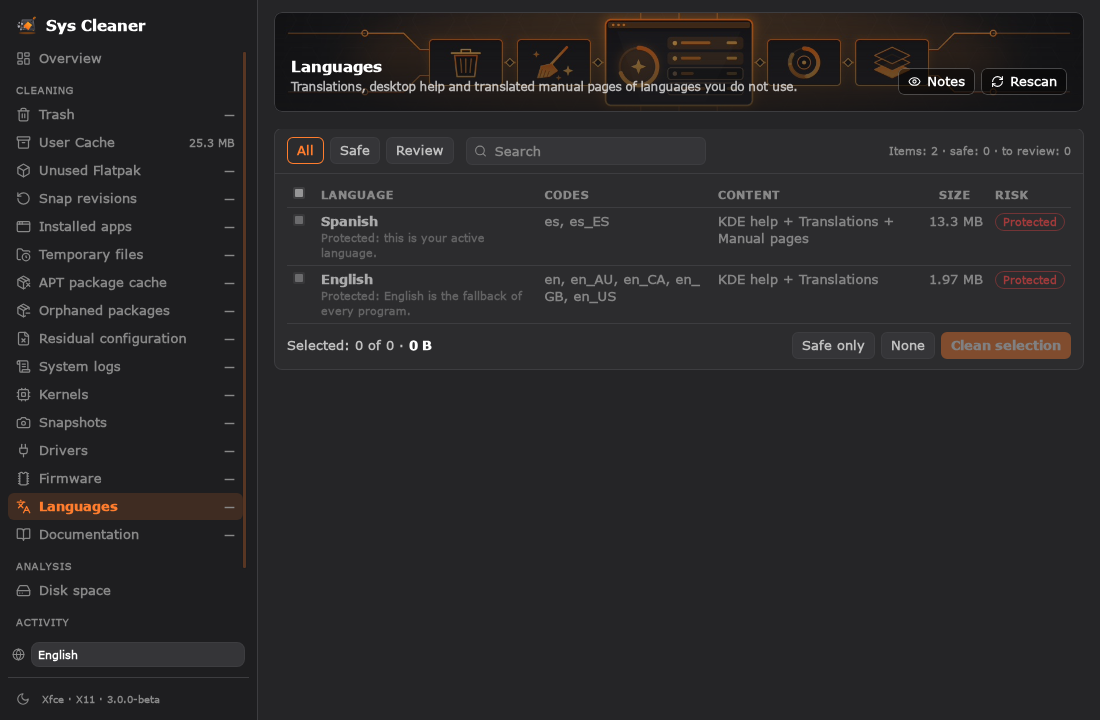
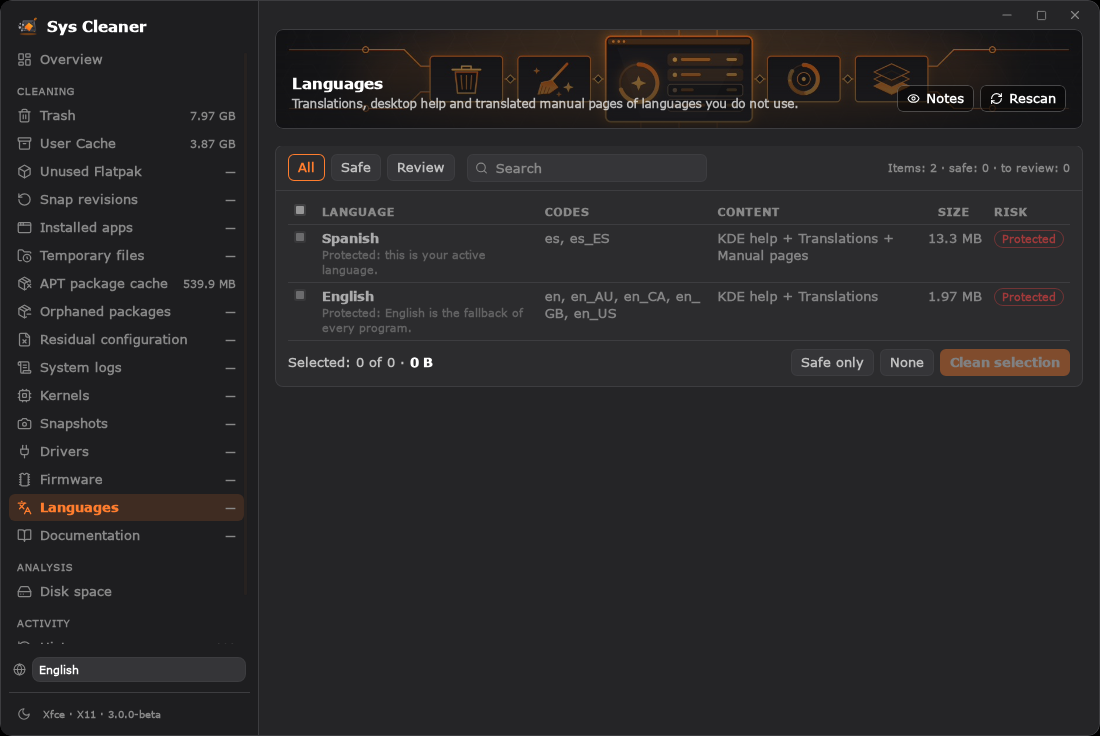
Frameless card window, new screenshots and bump to 3.0.0-8-beta

diff --git a/src/components/WindowControls.svelte b/src/components/WindowControls.svelte
@@ -1,0 +1,40 @@
+<script lang="ts">
+  import { getCurrentWindow } from "@tauri-apps/api/window";
+  import { _ } from "svelte-i18n";
+  import { Minus, Square, Copy, X } from "lucide-svelte";
+  import { maximized } from "../lib/window";
+
+  // The buttons of the window when the system draws no frame: minimize, maximize
+  // or restore, and close, at the top right of the card. They are plain icons;
+  // the accent of the theme shows under the pointer, and red only on close.
+  const win = getCurrentWindow();
+
+  const button = "grid h-[22px] w-8 place-items-center rounded text-text-muted transition-colors";
+</script>
+
+<div class="flex items-center gap-0.5">
+  <button
+    class="{button} hover:bg-primary/15 hover:text-primary"
+    title={$_("app.window.minimize")}
+    aria-label={$_("app.window.minimize")}
+    on:click={() => win.minimize()}
+  >
+    <Minus size={14} />
+  </button>
+  <button
+    class="{button} hover:bg-primary/15 hover:text-primary"
+    title={$maximized ? $_("app.window.restore") : $_("app.window.maximize")}
+    aria-label={$maximized ? $_("app.window.restore") : $_("app.window.maximize")}
+    on:click={() => win.toggleMaximize()}
+  >
+    {#if $maximized}<Copy size={11} />{:else}<Square size={11} />{/if}
+  </button>
+  <button
+    class="{button} hover:bg-danger hover:text-white"
+    title={$_("app.window.close")}
+    aria-label={$_("app.window.close")}
+    on:click={() => win.close()}
+  >
+    <X size={14} />
+  </button>
+</div>

diff --git a/src/App.svelte b/src/App.svelte
@@ -161,15 +161,23 @@
       select(tabs[(idx + dir + tabs.length) % tabs.length].id);
     }
   }
+  import WindowControls from "./components/WindowControls.svelte";
+  import { frameless, maximized } from "./lib/window";
 </script>
 
 <svelte:window on:keydown={handleKeydown} />
 
-<div class="flex h-screen overflow-hidden">
+<div class="h-screen bg-dark {$frameless && !$maximized ? 'window-card' : ''}">
+<div class="flex h-full overflow-hidden">
   <Sidebar {tabs} {active} onSelect={select} {badges} {appVersion} {envInfo} />
 
   <div class="flex min-w-0 flex-1 flex-col overflow-hidden">
-    <div class="shrink-0 px-4 pt-3">
+    {#if $frameless}
+      <div class="relative h-7 shrink-0" data-tauri-drag-region>
+        <div class="absolute right-2 top-[3px]"><WindowControls /></div>
+      </div>
+    {/if}
+    <div class="shrink-0 px-4 {$frameless ? 'pt-0' : 'pt-3'}" data-tauri-drag-region="deep">
       <div
         class="relative flex min-h-[100px] items-end gap-3 overflow-hidden rounded border border-border p-4"
         style="background: linear-gradient(rgba(20, 20, 22, 0.25), rgba(20, 20, 22, 0.82)), url('/assets/hero/sys-cleaner-background.jpg'); background-size: cover; background-position: center;"
@@ -229,3 +237,4 @@
 {/if}
 
 <Toast />
+</div>

diff --git a/src/BasicApp.svelte b/src/BasicApp.svelte
@@ -112,12 +112,20 @@
       getCurrentWindow().close();
     }
   }
+  import WindowControls from "./components/WindowControls.svelte";
+  import { frameless, maximized } from "./lib/window";
 </script>
 
 <svelte:window on:click={() => (menuOpen = false)} on:keydown={onKeydown} />
 
-<div class="flex h-screen flex-col overflow-hidden">
-  <div class="shrink-0 px-4 pt-3">
+<div class="h-screen bg-dark {$frameless && !$maximized ? 'window-card' : ''}">
+<div class="flex h-full flex-col overflow-hidden">
+  {#if $frameless}
+    <div class="relative h-7 shrink-0" data-tauri-drag-region>
+      <div class="absolute right-2 top-[3px]"><WindowControls /></div>
+    </div>
+  {/if}
+  <div class="shrink-0 px-4 {$frameless ? 'pt-0' : 'pt-3'}" data-tauri-drag-region="deep">
     <div
       class="relative flex min-h-[100px] items-end gap-3 overflow-hidden rounded border border-border p-4"
       style="background: linear-gradient(rgba(20, 20, 22, 0.25), rgba(20, 20, 22, 0.82)), url('/assets/hero/sys-cleaner-background.jpg'); background-size: cover; background-position: center;"
@@ -244,3 +252,4 @@
 {/if}
 
 <Toast />
+</div>

diff --git a/src/lib/window.ts b/src/lib/window.ts
@@ -1,0 +1,21 @@
+import { writable } from "svelte/store";
+import { getCurrentWindow } from "@tauri-apps/api/window";
+
+// Whether the system draws a frame around the window. With `decorations` off in
+// tauri.conf.json it does not: the window is one card with rounded corners (the
+// .window-card rule of global.css) and the program shows its own window buttons
+// (WindowControls.svelte). With it on, none of that shows.
+export const frameless = writable(false);
+export const maximized = writable(false);
+
+(async () => {
+  try {
+    const win = getCurrentWindow();
+    if (await win.isDecorated()) return;
+    frameless.set(true);
+    maximized.set(await win.isMaximized());
+    await win.onResized(async () => maximized.set(await win.isMaximized()));
+  } catch {
+    // Not inside Tauri (a browser while developing): leave the window as it is.
+  }
+})();

diff --git a/src/styles/global.css b/src/styles/global.css
@@ -45,12 +45,24 @@
     /* Compact base size of the interface; the sidebar and tables rely on it. */
     font-size: 12.5px;
     line-height: 1.4;
-    background: theme("colors.dark");
+    /* The background is the one of the window card (App.svelte): the body stays
+       transparent so the corners of a window with no frame can be rounded. */
+    background: transparent;
     color: theme("colors.text.DEFAULT");
     height: 100vh;
     margin: 0;
     overflow: hidden;
   }
+}
+
+/*
+ * The window when the system draws no frame: one card with rounded corners.
+ * clip-path also cuts the dialogs (position: fixed), which overflow does not.
+ */
+.window-card {
+  border-radius: 12px;
+  border: 1px solid rgb(var(--color-border));
+  clip-path: inset(0 round 12px);
 }
 
 .content-scroll {

diff --git a/src/components/Sidebar.svelte b/src/components/Sidebar.svelte
@@ -44,7 +44,7 @@
   $: footerLabel = [envLabel, cleanVersion].filter(Boolean).join(" · ") || "Soplos Sys Cleaner";
 </script>
 
-<aside class="flex w-[258px] shrink-0 flex-col gap-px overflow-hidden border-r border-border bg-panel px-2 py-2.5">
+<aside class="flex w-[258px] shrink-0 flex-col gap-px overflow-hidden border-r border-border bg-panel px-2 py-2.5" data-tauri-drag-region>
   <div class="flex items-center gap-2 px-2 pb-2 pt-1 text-[15px] font-bold text-text-bright">
     <img src="/assets/icons/org.soplos.syscleaner.png" alt="Soplos" class="h-[22px] w-[22px] shrink-0 object-contain" />
     <span class="whitespace-nowrap">Sys Cleaner</span>

diff --git a/src-tauri/src/lib.rs b/src-tauri/src/lib.rs
@@ -36,8 +36,14 @@ fn create_main_window(app: &tauri::App, mode: AppMode) -> tauri::Result<()> {
         AppMode::Basic => {
             WebviewWindowBuilder::new(app, "main", WebviewUrl::App("basic.html".into()))
                 .title("Soplos Sys Cleaner")
-                .inner_size(780.0, 440.0)
-                .min_inner_size(640.0, 420.0)
+                // No frame of the system: a card with rounded corners, as the
+                // advanced one gets from tauri.conf.json. The heights have 16
+                // points more than before (440 and 420) for the strip that
+                // holds the window buttons.
+                .decorations(false)
+                .transparent(true)
+                .inner_size(780.0, 456.0)
+                .min_inner_size(640.0, 436.0)
                 .center()
                 .build()?;
         }

diff --git a/CHANGELOG.md b/CHANGELOG.md
@@ -2,6 +2,12 @@
 
 All notable changes to Soplos Sys Cleaner are documented in this file.
 
+## [3.0.0-8-beta] - 2026-10-29
+
+### Changed
+
+- The window no longer has the frame of the system: it is a card with rounded corners and its own minimize, maximize and close buttons at the top right. It can be moved from the top strip, the banner and the side bar, and double click on the strip maximizes it. The rounded corners need a compositing manager running, as the one of Xfce, Plasma or GNOME.
+
 ## [3.0.0-7-beta] - 2026-10-28
 
 ### Changed

diff --git a/README.md b/README.md
@@ -1,6 +1,6 @@
 # Soplos Sys Cleaner 3.0
 
-![Version](https://img.shields.io/badge/version-3.0.0--7--beta-blue)
+![Version](https://img.shields.io/badge/version-3.0.0--8--beta-blue)
 ![License](https://img.shields.io/badge/license-GPL--3.0--or--later-green)
 ![Platform](https://img.shields.io/badge/platform-Linux-lightgrey)
 ![Tauri](https://img.shields.io/badge/Tauri-2-orange)
